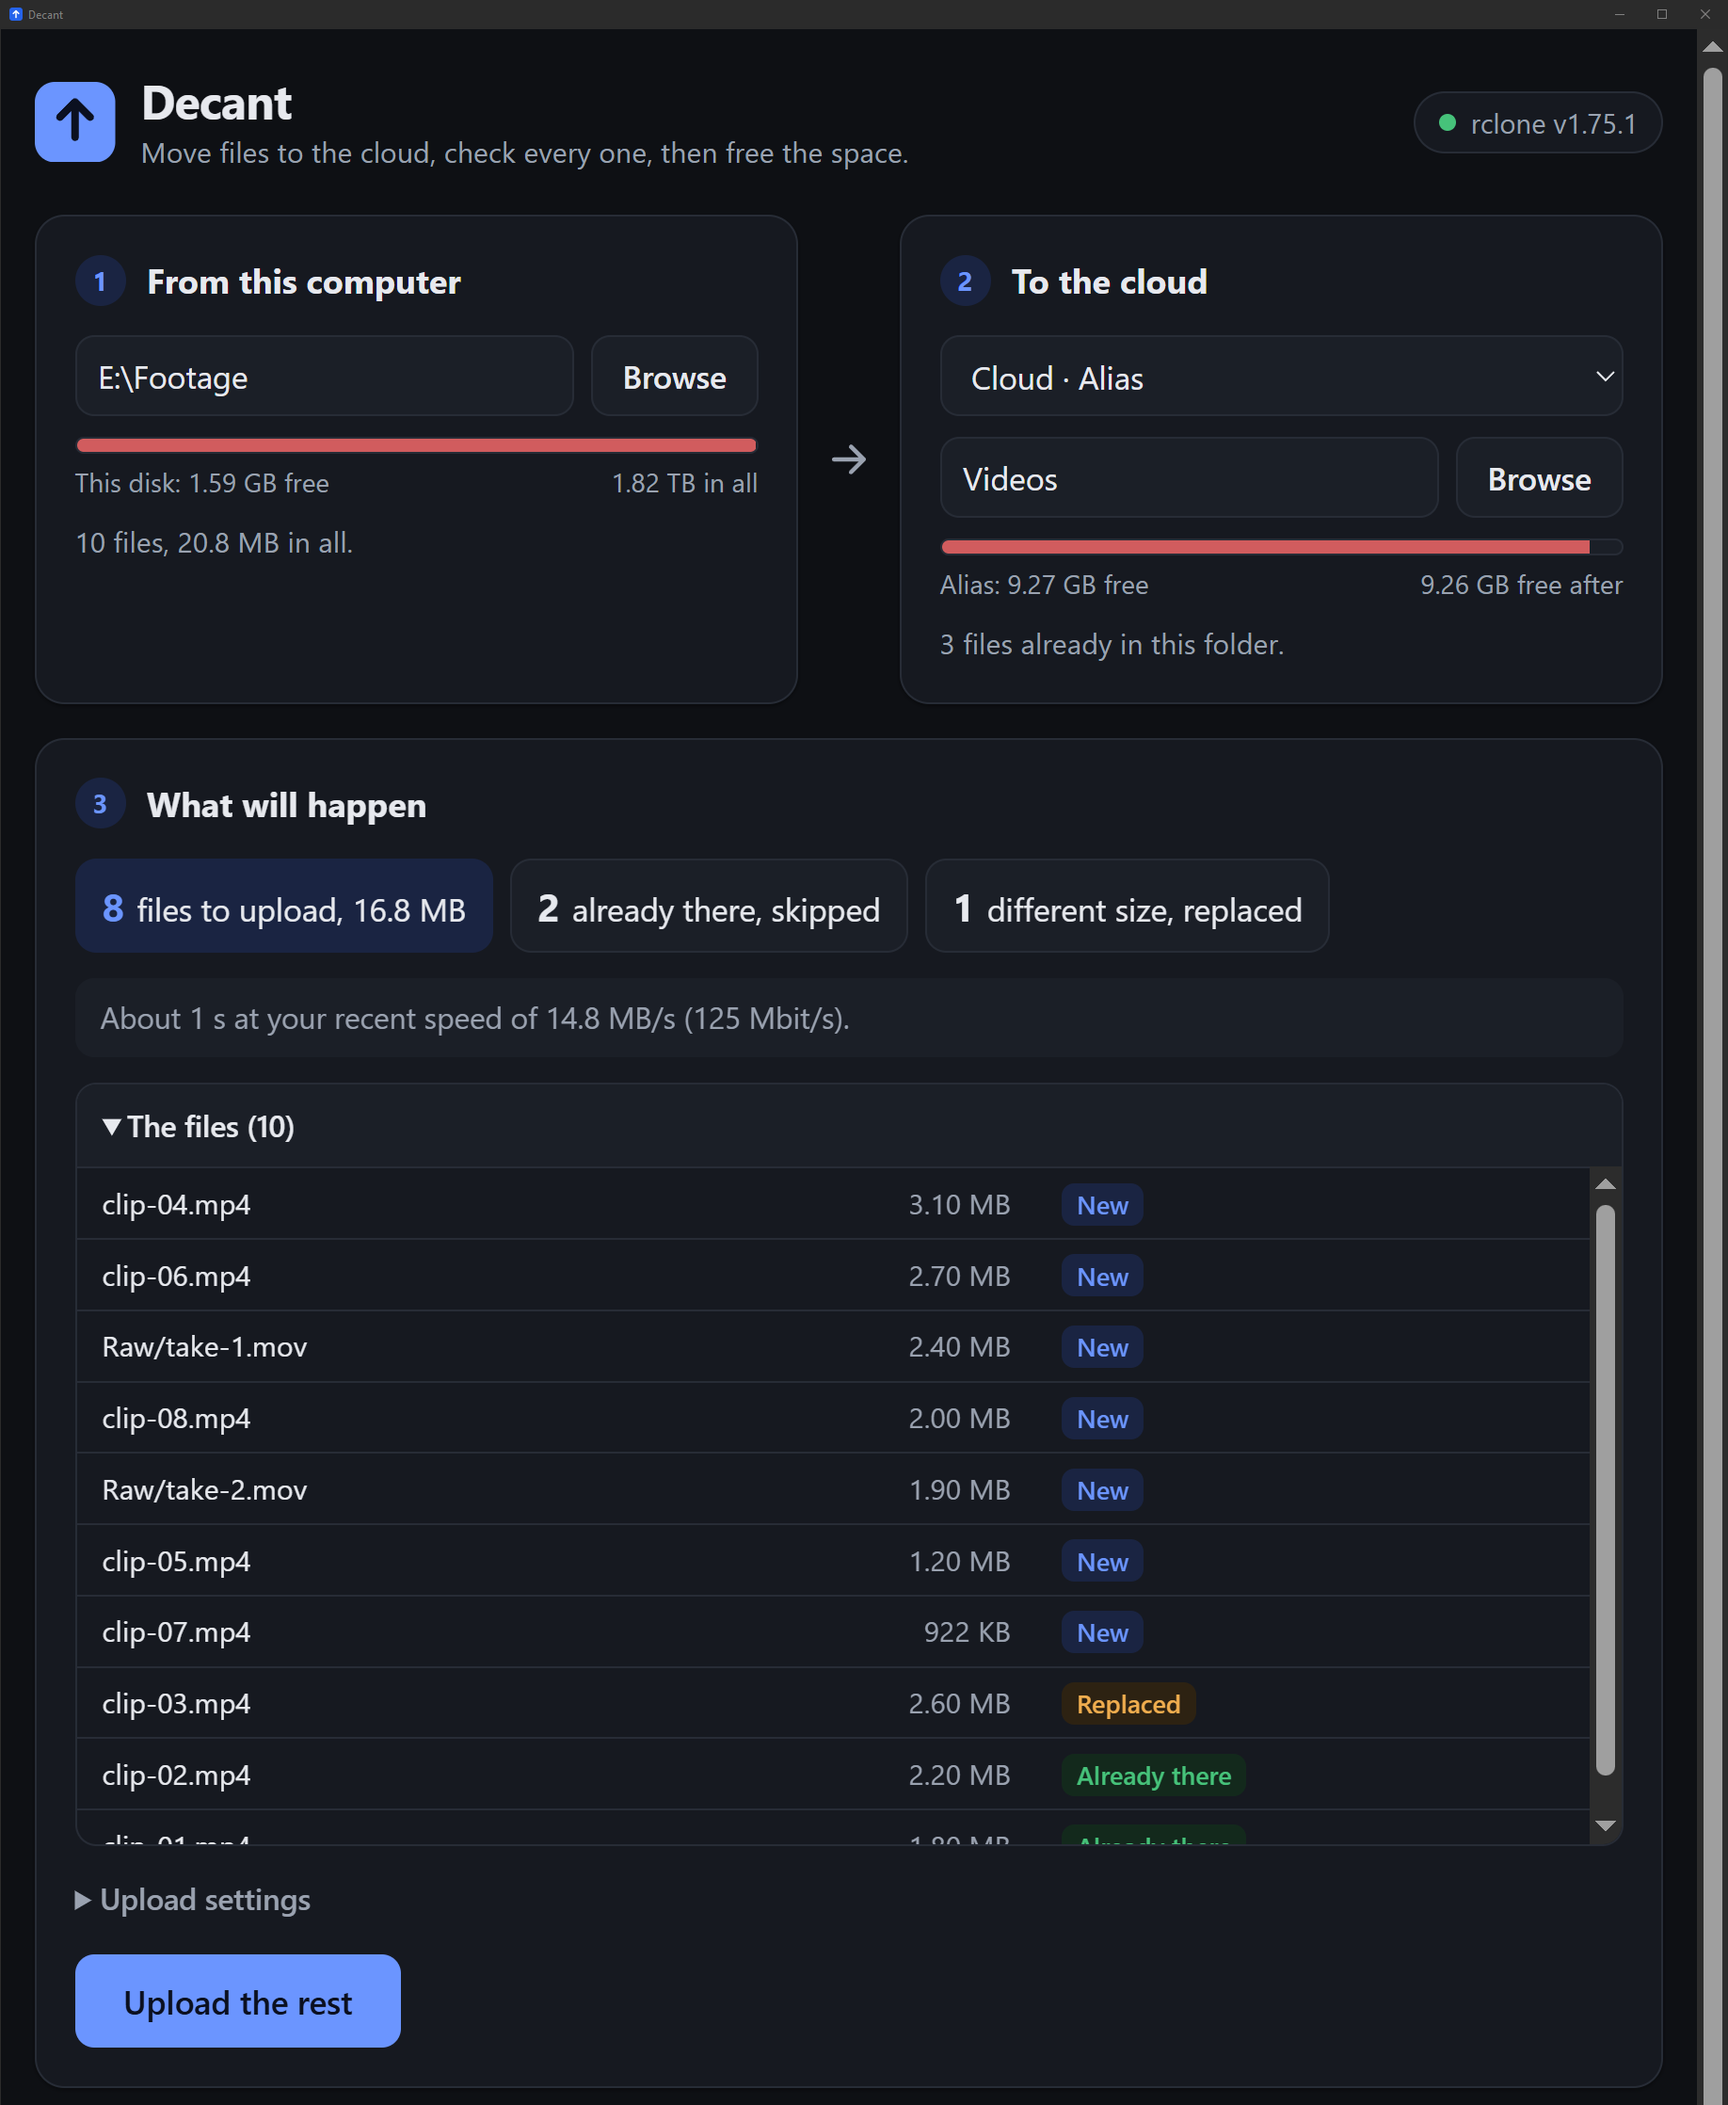
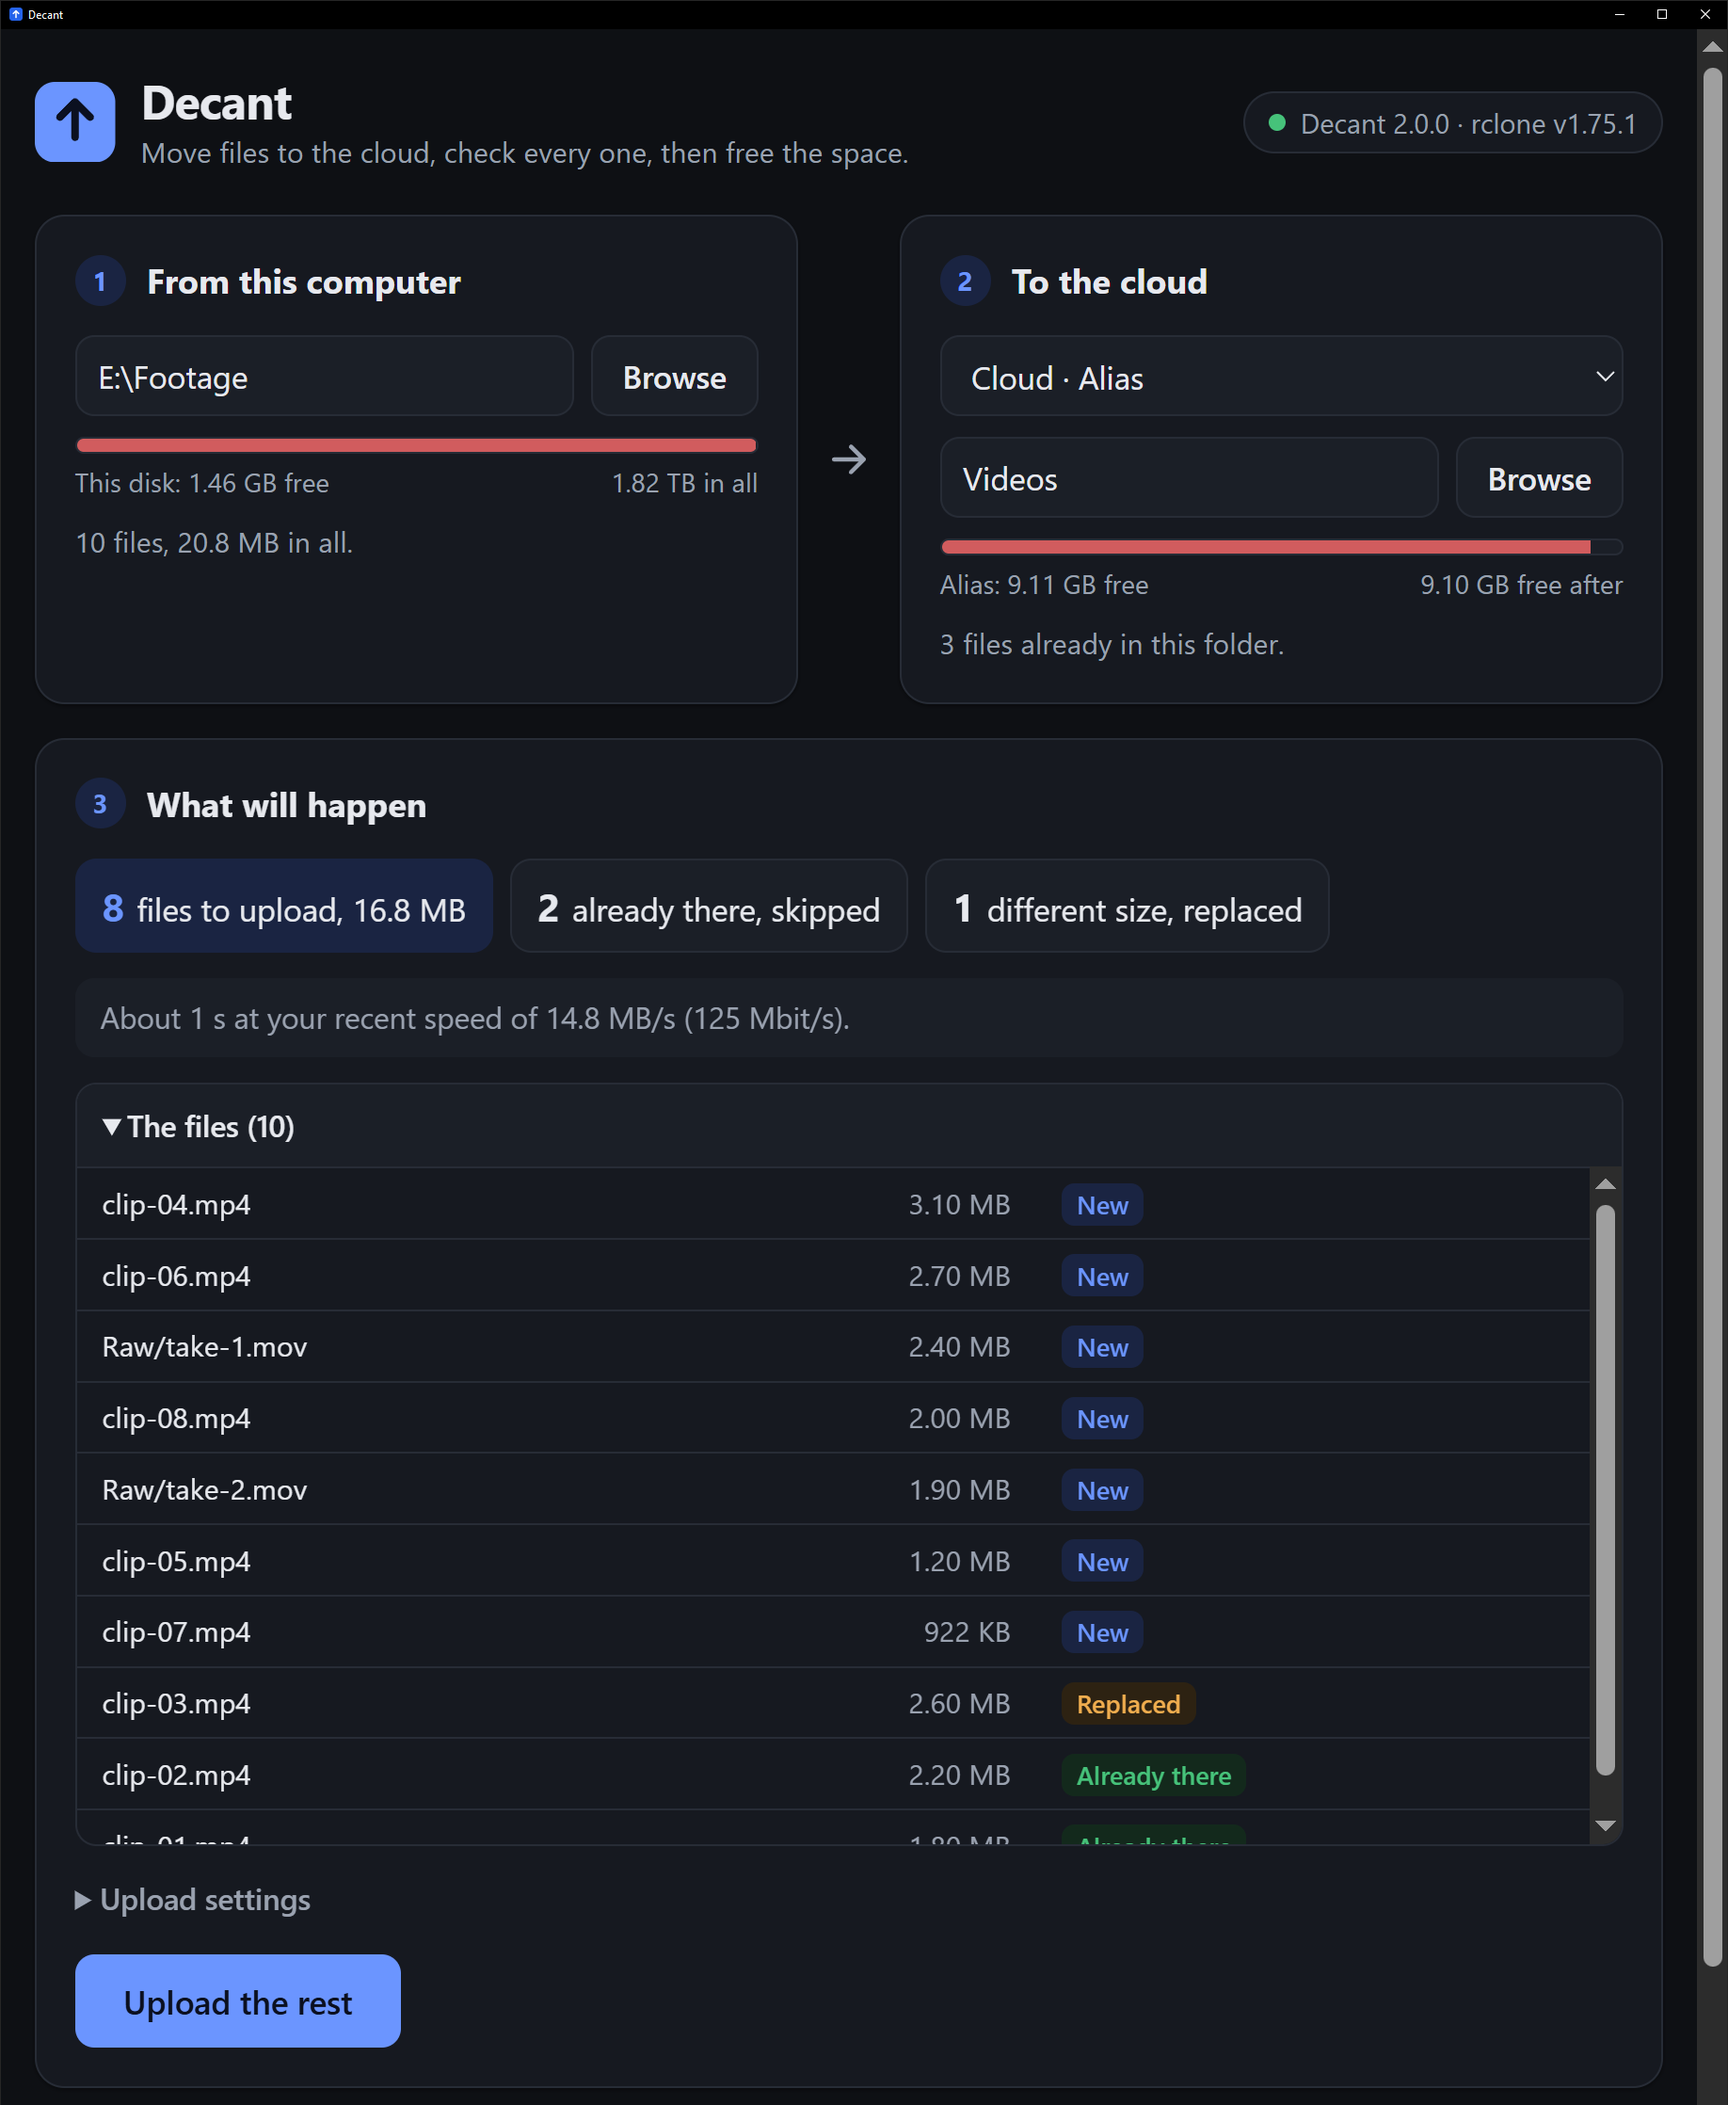
Show Decant's own version beside rclone's in the header
The app only showed rclone's version, so the security policy and the
bug form asked for a version nobody could find. The header now reads
"Decant 2.0.0 · rclone v1.75.1" in the desktop app. The browser
version has no app version of its own, so it still shows rclone's.

I checked it in a browser with a stand-in for the desktop core, with
and without an app version, then in a fresh build of the app. The
hero screenshot is retaken to match.

Changed region(s): [[0.0, 0.0, 1.0, 0.0617], [0.9624, 0.9258, 1.0, 1.0]]

diff --git a/ui/app.js b/ui/app.js
@@ -71,7 +71,7 @@
   const DRIVE_DAILY = 750 * 1024 ** 3;
 
   const state = {
-    os: '', version: '',
+    os: '', version: '', appVersion: '',
     remotes: [],                 // { name, type, target }
     src: '', srcDisk: null, srcFiles: null, srcErr: null,
     dst: { remote: '', path: '' }, dstAbout: null, dstFiles: null, dstErr: null, dstNew: false,
@@ -94,6 +94,13 @@
     $('conn-text').textContent = text;
   }
 
+  // The desktop app names its own version beside rclone's, so a bug report
+  // can say which release it came from. The browser version has no app
+  // version to show.
+  function versionText() {
+    return (state.appVersion ? 'Decant ' + state.appVersion + ' · ' : '') + 'rclone ' + state.version;
+  }
+
   function gate(detail) {
     $('app').hidden = true;
     $('gate').hidden = false;
@@ -105,7 +112,7 @@
   async function heartbeat() {
     try {
       await RC.call('core/version', null, { timeout: 4000 });
-      if (!state.online) { state.online = true; setConn('ok', 'rclone ' + state.version); renderAll(); }
+      if (!state.online) { state.online = true; setConn('ok', versionText()); renderAll(); }
     } catch (e) {
       if (e.status === 0 && state.online) {
         state.online = false;
@@ -993,6 +1000,7 @@
       $('gate-text').textContent = 'Decant could not start its copy of rclone, so it cannot do anything yet.';
       const info = await RC.info();
       if (info.error) { gate(info.error); return; }
+      state.appVersion = info.version || '';
     }
     if (!RC.has) { gate('No session from the launcher was found next to this page.'); return; }
     try {
@@ -1003,7 +1011,7 @@
       return;
     }
     $('app').hidden = false;
-    setConn('ok', 'rclone ' + state.version);
+    setConn('ok', versionText());
     wire();
     initOptions();
     try { await loadRemotes(); } catch (e) { toast(RC.explain(e).title); }

diff --git a/CHANGELOG.md b/CHANGELOG.md
@@ -12,6 +12,7 @@ Decant becomes installable software for Windows, macOS and Linux, with rclone bu
 ### Added
 - Desktop app built with Tauri, wrapping the existing interface, with rclone included in the installer.
 - A tray icon. Closing the window while an upload or check runs keeps it running in the tray; closing with nothing running quits, and stops rclone.
+- The app shows its own version beside rclone's, at the top right, so a bug report can name the release.
 - Freed files go to the **Recycle Bin** (Trash on macOS and Linux) by default, with permanent deletion as an explicit choice. The dialog says that the space returns only once the bin is emptied.
 - `THREAT_MODEL.md`, `SECURITY.md`, and decision records in `docs/decisions/`.
 - CI on every pull request and every push to `main`: interface tests, Rust tests, Clippy, `cargo audit` and CodeQL. OpenSSF Scorecard runs on pushes to `main` and weekly, and Dependabot checks dependencies weekly.
